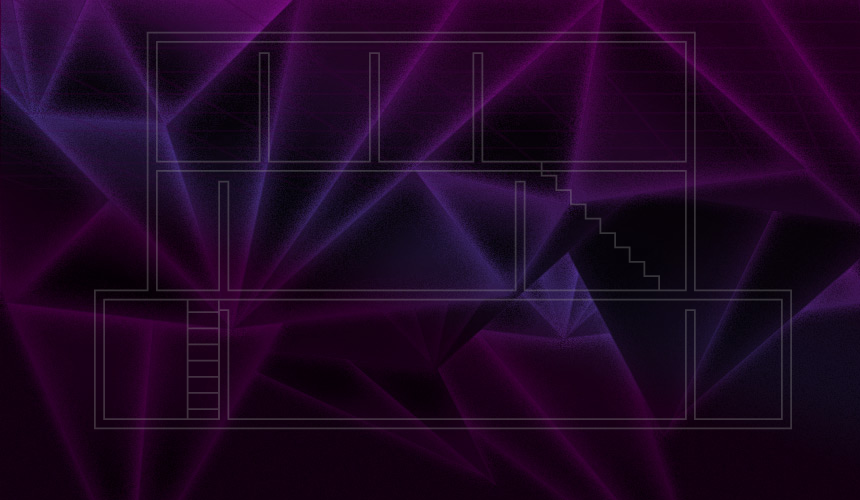
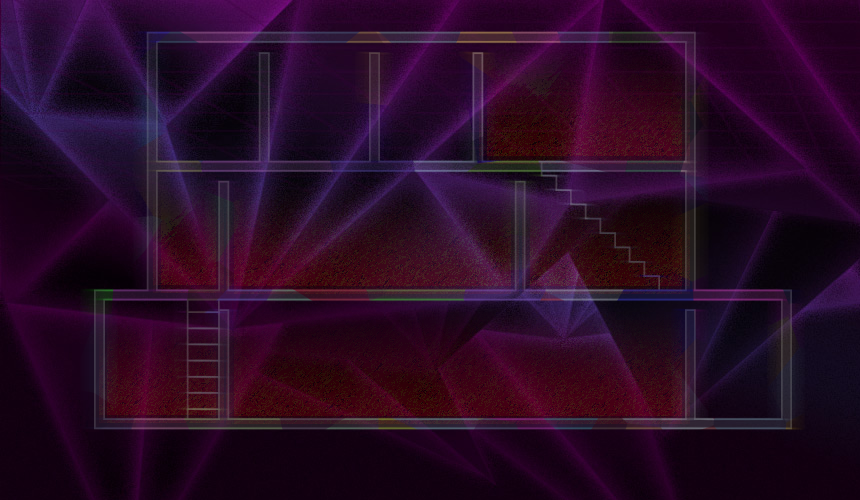
new map + orbit representing individuals checked in the exhibit - beacons data was also updated

diff --git a/Codame/js/pulsar.js b/Codame/js/pulsar.js
@@ -161,8 +161,6 @@ this.codamePlayground = this.codamePlayground||{};
                         break;
                 }
 
-                //updateDirection();
-
                 applyVariation();
 
                 frequency = 8+lightIndex/6;
@@ -170,7 +168,6 @@ this.codamePlayground = this.codamePlayground||{};
 
                 for(var i=0; i < angles.length; i++){
                     angles[i] = angles[i] +(lightIndex/25 * 0.8);
-                   // radius[i] = 10+lightIndex/15;
                     radius[i] = 10+lightIndex/15 + Math.sin(createjs.Ticker.getTicks()/frequency)*amplitude;
                 }
 
@@ -187,103 +184,3 @@ this.codamePlayground = this.codamePlayground||{};
 
      codamePlayground.Pulsar = Pulsar;
 }());
-
-
-/*
-function lightMaker() {
-    var lightObj = new createjs.SpriteContainer();
-    lightObj.layers = [];
-    lightObj.layers[0] = getLayer("light0"); // coldest lights
-    lightObj.layers[1] = getLayer("light1");
-    lightObj.layers[2] = getLayer("light2");
-    lightObj.layers[3] = getLayer("light3");
-    lightObj.layers[4] = getLayer("light4"); // warmest lights
-
-    function getLayer(imgId){
-
-        var res = [];
-        for(var i=0; i < 3; i++){
-            var l = new createjs.Sprite(lightsSS, imgId);
-            l.x = Math.cos(convertAngle(angles[i])) * radius[i] - LIGHT_WIDTH/2;
-            l.y = Math.sin(convertAngle(angles[i])) * radius[i] - LIGHT_HEIGHT/2;
-            res.push(l);
-            lightObj.addChild(l);
-        }
-        return res;
-    }
-
-    function getRangeValue (range1, range2, value){
-        if( value < range1[0] || value > range1[1] ){
-            return 0;
-        }
-        else{
-            var prcnt = Math.round((value - range1[0]) / (range1[1] - range1[0]) * 100);
-
-            return (range2[1] - range2[0]) * prcnt / 100 + range2[0];
-        }
-    }
-
-    function setLayers(index, intensity){
-        var set = lightObj.layers[index];
-        var sX, sY, a;
-
-        switch (index){
-            case 0:         // range is [0, 20]
-                sX = sY = getRangeValue([-10, 30], [0.1, 1.2], intensity);   // scale range is [0.1, 1.2]
-                a = getRangeValue([-10, 10], [0, 1], intensity);             // scale range is [0.1, 1.2]
-                a = a!= 0 ? a : getRangeValue([10, 30], [1, 0], intensity);  // scale range is [0.1, 1.2]
-                // console.log("case 0 = "+sX+" -alpha- "+a);
-                break;
-            case 1:         // range is [20, 40]
-                sX = sY = getRangeValue([10, 50], [0.1, 1.2], intensity);   // scale range is [0.1, 1.2]
-                a = getRangeValue([10, 30], [0, 1], intensity);             // scale range is [0.1, 1.2]
-                a = a!= 0 ? a : getRangeValue([30, 50], [1, 0], intensity);  // scale range is [0.1, 1.2]
-                //  console.log("case 1 = "+sX+" -alpha- "+a);
-                break;
-            case 2:         // range is [40, 60]
-                sX = sY = getRangeValue([30, 70], [0.1, 1.2], intensity);   // scale range is [0.1, 1.2]
-                a = getRangeValue([30, 50], [0, 1], intensity);             // scale range is [0.1, 1.2]
-                a = a!= 0 ? a : getRangeValue([50, 70], [1, 0], intensity);  // scale range is [0.1, 1.2]
-                // console.log("case 2 = "+sX+" -alpha- "+a);
-                break;
-            case 3:         // range is [60, 80]
-                sX = sY = getRangeValue([50, 90], [0.1, 1.2], intensity);   // scale range is [0.1, 1.2]
-                a = getRangeValue([50, 70], [0, 1], intensity);             // scale range is [0.1, 1.2]
-                a = a!= 0 ? a : getRangeValue([70, 90], [1, 0], intensity);  // scale range is [0.1, 1.2]
-                //  console.log("case 3 = "+sX+" -alpha- "+a);
-                break;
-            case 4:         // range is [80, 100]
-                sX = sY = getRangeValue([70, 110], [0.1, 1.2], intensity);   // scale range is [0.1, 1.2]
-                a = getRangeValue([70, 90], [0, 1], intensity);             // scale range is [0.1, 1.2]
-                a = a!= 0 ? a : getRangeValue([90,110], [1, 0], intensity);  // scale range is [0.1, 1.2]
-                //   console.log("case 4 = "+sX+" -alpha- "+a);
-                break;
-        }
-        for(var i=0; i < 3; i++){
-            var l = set[i];
-            l.scaleX = sX;
-            l.scaleY = sY;
-            l.x = Math.cos(convertAngle(angles[i])) * radius[i]*(sX+0.2) - LIGHT_WIDTH/2*sX;
-            l.y = Math.sin(convertAngle(angles[i])) * radius[i]*(sY+0.2) - LIGHT_HEIGHT/2*sY;
-            l.alpha = a;
-        }
-    }
-
-
-    var topLight = new createjs.Sprite(lightsSS, "light5");
-    topLight.scaleX = 0.5;
-    topLight.scaleY = 0.5;
-    topLight.x = - LIGHT_WIDTH/2 * topLight.scaleX;
-    topLight.y = - LIGHT_HEIGHT/2 * topLight.scaleY;
-    lightObj.addChild(topLight);
-
-    return {
-        target: lightObj,
-        setIntensity : function( intensity ){ // from 0 to 100
-            setLayers(0, intensity);
-            setLayers(1, intensity);
-            setLayers(2, intensity);
-            setLayers(3, intensity);
-            setLayers(4, intensity);
-        }
-    };*/

diff --git a/Codame/js/orbit.js b/Codame/js/orbit.js
@@ -1,0 +1,91 @@
+/**
+ * Created with JetBrains WebStorm.
+ * User: elimak
+ * Date: 3/22/14
+ * Time: 6:01 PM
+ * To change this template use File | Settings | File Templates.
+ */
+
+// namespace:
+this.codamePlayground = this.codamePlayground||{};
+
+(function() {
+    "use strict";
+
+   var Orbit = function( orbitsSS ){
+
+        var LIGHT_WIDTH = 140;
+        var LIGHT_HEIGHT = 140;
+
+        var angles = [30,150,270];
+        var radius = [2,2,2];
+        var color = Math.random()*6;
+
+       var frequency = 15;
+       var amplitude = 1;
+
+        var globalAngle = Math.round(Math.random()*359);
+
+        var target = new createjs.SpriteContainer();
+        var lights = [];
+
+       for(var i=0; i<3/*20*/; i++) {
+           var light = new createjs.SpriteContainer();
+           light.layers = [];
+           light.layers[0] = getLayer("orbit0", 0, light); // coldest lights
+           light.layers[1] = getLayer("orbit1", 1, light);
+           light.layers[2] = getLayer("orbit2", 2, light);
+           light.layers[3] = getLayer("orbit3", 3, light);
+           light.layers[4] = getLayer("orbit4", 4, light);
+           light.layers[5] = getLayer("orbit5", 5, light); // warmest lights
+           light.layers[6] = getLayer("orbit6", 6, light); // white lights
+
+           target.addChild(light);
+           lights.push(light);
+       }
+
+
+        function getLayer(imgId, id, parent){
+
+            var res = [];
+            var alpha = ( color > id && color < (id +1) )? color - id : 0;
+            alpha = ( color < id && (color+1) > id )? id - color : alpha;
+
+            for(var i=0; i < 3; i++){
+                var l = new createjs.Sprite(orbitsSS, imgId);
+                l.scaleX =  l.scaleY = 0.1;
+                l.x = Math.cos(convertAngle(angles[i])) * radius[i] - LIGHT_WIDTH* l.scaleX/2;
+                l.y = Math.sin(convertAngle(angles[i])) * radius[i] - LIGHT_HEIGHT* l.scaleX/2;
+
+                res.push(l);
+                if(alpha != 0)   {
+                    parent.addChild(l);
+                }
+                l.alpha = alpha;
+            }
+            return res;
+        }
+
+        function convertAngle(degree){
+            return degree * Math.PI / 180;
+        }
+
+        return {
+            ui : target,
+            setIntensity : function(intensity){
+                var ang;
+                for(var i=0; i<lights.length; i++){
+
+                    lights[i].scaleX = lights[i].scaleY = 0.5+Math.sin(createjs.Ticker.getTicks()/frequency)*amplitude - (0.05*i);
+                    ang = globalAngle+i*intensity/100;//lights[i].scaleX;
+                    lights[i].x = Math.cos(ang) * (Math.round(Math.random()*2)+20);
+                    lights[i].y = Math.sin(ang) * (Math.round(Math.random()*2)+20);
+                }
+                light.alpha = Math.abs(Math.sin(createjs.Ticker.getTicks()/frequency)*amplitude);
+                globalAngle +=0.08;
+            }
+        };
+    };
+
+    codamePlayground.Orbit = Orbit;
+}());

diff --git a/Codame/js/controller.js b/Codame/js/controller.js
@@ -14,9 +14,8 @@ this.codamePlayground = this.codamePlayground||{};
 
     var Controller = function(){
 
-        var intensityInd = [25, 12,98, 50];
-        var intensityInc = [0.2, 0.2, 0.2, 0.2];
-
+        var intensityInd = [25, 12,98, 50, 95, 50, 95, 87, 54, 12, 95, 87, 54, 12 ];
+        var intensityInc = [0.2, 0.2, 0.2, 0.2, 0.2, 0.2, 0.2, 0.2, 0.2, 0.2, 0.2, 0.2, 0.2];
 
         var stage,
             mode; // live or replay
@@ -29,24 +28,41 @@ this.codamePlayground = this.codamePlayground||{};
             replayData;
 
         var pulsars = [];
+        var orbits = [];
 
         /**
          * The assets are loaded
          * @param evt
          */
         function handleLoad(evt){
-           // set the framerate of the whole visualization
+           // set the frame rate of the whole visualization
             createjs.Ticker.timingMode = createjs.Ticker.RAF;
             createjs.Ticker.on("tick", tick, this);
 
             // instantiate the beacons
             var beacons = resources.getBeaconsModel();
 
-            for(var i=0; i< beacons.length; i++){
+            for(var i=0; i<15;i++){
+                var b = beacons[Math.round(Math.random()*(beacons.length-1))];
+                var orbit = new codamePlayground.Orbit(resources.getOrbitsSS());
+                orbit.ui.x = b.position.x;
+                orbit.ui.y = b.position.y;
+                stage.addChild(orbit.ui);
+                orbits.push(orbit);
+            }
+
+           for(var i=0; i< beacons.length; i++){
                 var pulsar = new codamePlayground.Pulsar(resources.getLightsSS());
                 pulsar.ui.x = beacons[i].position.x;
                 pulsar.ui.y = beacons[i].position.y;
-                pulsar.name = beacons[i].name;
+                pulsar.ui.scaleX = pulsar.ui.scaleY = 0.3;
+                pulsar.name = beacons[i].id;
+
+               /*var debug = resources.getDebugDot();
+               debug.x = i *15;
+               debug.y = i*15;    */
+
+                //console.log(pulsar);
 
                 stage.addChild(pulsar.ui);
                 pulsars.push(pulsar);
@@ -59,11 +75,16 @@ this.codamePlayground = this.codamePlayground||{};
                 var pulsar = pulsars[i];
 
                 intensityInd[i] += intensityInc[i];
-                if(intensityInd[i] > 100) intensityInc[i] = -0.05;
+                if(intensityInd[i] > 80) intensityInc[i] = -0.05;
                 if(intensityInd[i] < 0) intensityInc[i] = +0.05;
 
                 pulsar.setIntensity(intensityInd[i]);
             }
+
+            for(var i=0; i<orbits.length; i++){
+                orbits[i].setIntensity(Math.round(Math.random()*100));
+            }
+
             stage.update(evt);
         }
 

diff --git a/Codame/js/resources.js b/Codame/js/resources.js
@@ -18,6 +18,7 @@ this.codamePlayground = this.codamePlayground||{};
         queue.on("complete", handleLoad, this);
 
         var lightsSS;
+        var orbitsSS;
 
         function handleLoad(evt) {
             publicApi.dispatchEvent("resourcesLoaded");
@@ -26,10 +27,11 @@ this.codamePlayground = this.codamePlayground||{};
         var publicApi = {
             load: function(){
                 queue.loadManifest([
+                    {id: "orbits", src: "assets/lights2.png"},
                     {id: "lights", src: "assets/lights7.png"},
+                    {id: "circle", src: "assets/circle.jpg"},
                     {id: "beacons", src: "assets/beacons.json"}
                 ], true);
-                console.log("request loading");
             },
             getLightsSS: function(){
                 if(lightsSS == null){
@@ -53,6 +55,32 @@ this.codamePlayground = this.codamePlayground||{};
                     });
                 }
                 return lightsSS;
+            },
+            getOrbitsSS: function(){
+                if(orbitsSS == null){
+                    orbitsSS = new createjs.SpriteSheet({
+                        "animations":{
+                            "orbit0": [0, 0],
+                            "orbit1": [1, 1],
+                            "orbit2": [2, 2],
+                            "orbit3": [3, 3],
+                            "orbit4": [4, 4],
+                            "orbit5": [5, 5],
+                            "orbit6": [6, 6]},
+                        "images": [queue.getResult("orbits")],
+                        "frames": {
+                            "height": 140,
+                            "width":140,
+                            "regX": 0,
+                            "regY": 0,
+                            "count": 7
+                        }
+                    });
+                }
+                return orbitsSS;
+            },
+            getDebugDot : function() {
+               return new createjs.Bitmap("assets/circle.jpg");
             },
             getBeaconsModel: function(){
                 return queue.getResult("beacons");

diff --git a/Codame/index.html b/Codame/index.html
@@ -8,7 +8,7 @@
 </head>
 
     <body onload="init();" style="background-color: black;">
-    <canvas id="testCanvas" width="800" height="500" style="background-image:url(assets/background.png);"></canvas>
+    <canvas id="testCanvas" width="860" height="500" style="background-image:url(assets/background2.png);"></canvas>
 
     <!-- OFFLINE MODE
     <script type="text/javascript" src="http://code.createjs.com/preloadjs-0.4.1.min.js"></script>
@@ -64,6 +64,7 @@
     <script type="text/javascript" src="js/controller.js"></script>
     <script type="text/javascript" src="js/resources.js"></script>
     <script type="text/javascript" src="js/pulsar.js"></script>
+    <script type="text/javascript" src="js/orbit.js"></script>
 
     <script>
         function init() {
